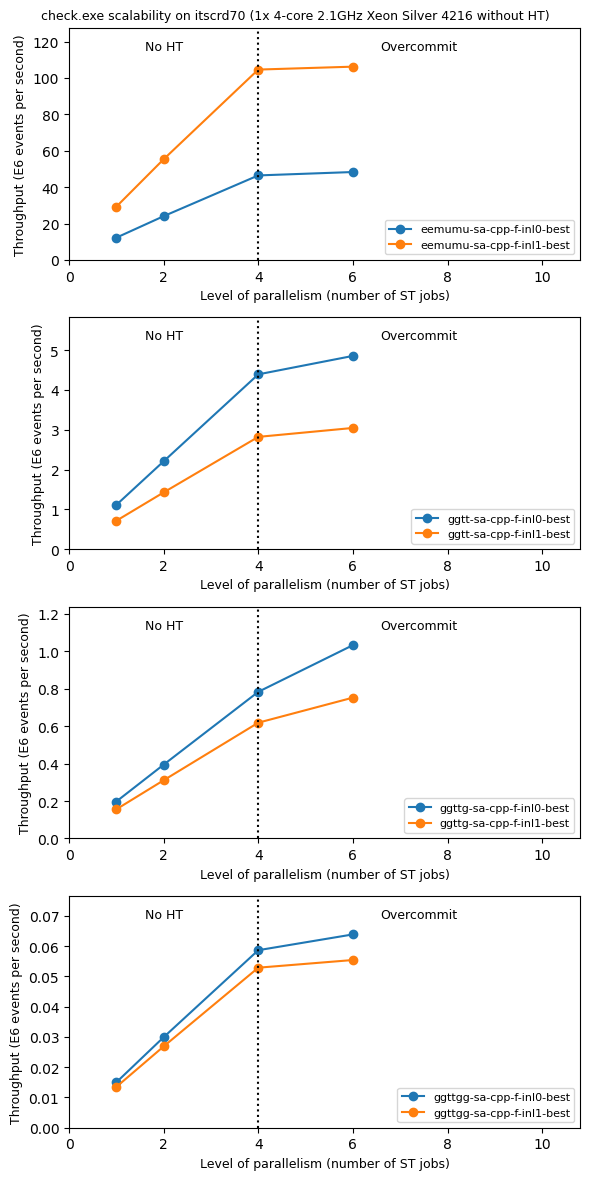
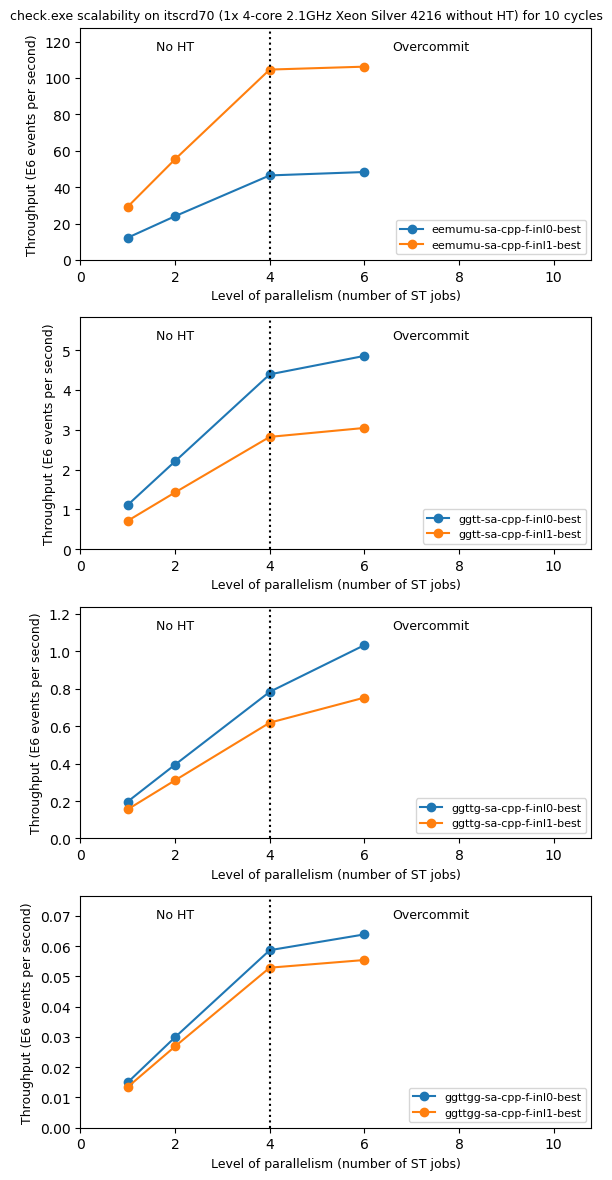
[bmk] add #cycles to itscrd70 plots

diff --git a/tools/benchmarking/bmkplots.py b/tools/benchmarking/bmkplots.py
@@ -324,9 +324,9 @@ if __name__ == '__main__':
     #dumpScoresAllKeys( loadRunSet( 'BMK-pmpe04'), keymatch='ggttgg-sa-cpp-d-inl0' )
 
     # PRODUCTION PLOTS
-    allplots( 'BMK-pmpe04', '-e001' )
-    allplots( 'BMK-pmpe04', '-e010' )
-    #allplots( 'BMK-itscrd70', '-e001' )
-    #allplots( 'BMK-itscrd70', '-e010' )
+    #allplots( 'BMK-pmpe04', '-e001' )
+    #allplots( 'BMK-pmpe04', '-e010' )
+    allplots( 'BMK-itscrd70', '-e001' )
+    allplots( 'BMK-itscrd70', '-e010' )
     #allplots( 'BMK-jwlogin08', '-e001' )
     #allplots( 'BMK-bmk6130', '-e001' )
